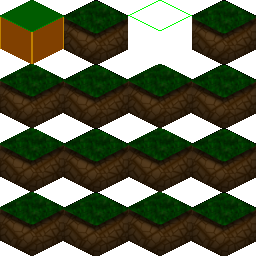
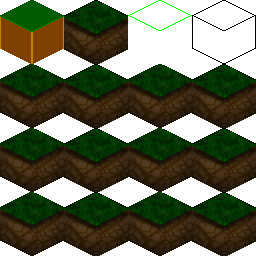
* Added a white debug tile.  * Fixed a bug in which WImage had two references to it's associated region.  * WTile edit had some issues that are now resolved!  * Interface had some unused vars  * Interface didn't let go of it's textures when calling GetSurface.  * Added all possible tiles when genera

Changed region(s): [[0.75, 0.0, 1.0, 0.25]]

diff --git a/src/sdk/gui/WTileEdit.java b/src/sdk/gui/WTileEdit.java
@@ -29,13 +29,19 @@ public class WTileEdit extends WWindow
 		imgTile = new WImage(new Rect(16, 16, 64, 64), m_rs.Texture, m_rs.get(m_tile.ID));
 		Add(imgTile);
 
-		lblHeight = new WLabel(new Rect(16, 70, 100, 18), "Count: " + m_tile.count());
+		lblHeight = new WLabel(new Rect(16, 70, 100, 18));
 		Add(lblHeight);
+		updateHeight();
 
 		Add(new WButton(new Rect(Width-150,  0, 90, 16), "Next", new ButAdd()));
 		Add(new WButton(new Rect(Width-150, 20, 90, 16), "Previous", new ButSub()));
 		Add(new WButton(new Rect(Width-150, 40, 90, 16), "Up", new ButUp()));
 		Add(new WButton(new Rect(Width-150, 60, 90, 16), "Down", new ButDown()));
+	}
+
+	private void updateHeight()
+	{
+		lblHeight.Text = "Count: " + m_tile.count();
 	}
 
 	private class ButAdd implements ClickHandler
@@ -61,6 +67,7 @@ public class WTileEdit extends WWindow
 	{
 		public void onClick(Object sender, boolean state) {
 			m_tile.Push(new Tile(Engine.araMain, m_tile.ID, false));
+			updateHeight();
 		}
 	}
 
@@ -68,6 +75,7 @@ public class WTileEdit extends WWindow
 	{
 		public void onClick(Object sender, boolean state) {
 			m_tile.Pop();
+			updateHeight();
 		}
 	}
 }

diff --git a/src/sdk/types/Interface.java b/src/sdk/types/Interface.java
@@ -30,8 +30,6 @@ public class Interface
 	private static int m_fntBase;
 	private static Texture m_texFont;
 
-	private RegionSet m_rsMap;
-
 	/** View offset, for dynamic camera movement around a fixed point
 	 * (ViewPoint)
 	 */
@@ -84,7 +82,6 @@ public class Interface
 		GL11.glBlendFunc(GL11.GL_SRC_ALPHA, GL11.GL_ONE_MINUS_SRC_ALPHA);
 
 		LoadFont("img/font.png");
-		m_rsMap = new RegionSet("tiles");
 	}
 
 	void setDisplay(int w, int h)
@@ -194,7 +191,9 @@ public class Interface
 		System.out.println("Loading texture: "+ref);
 
 		try {
-			Texture t = TextureLoader.getTexture("PNG", new FileInputStream(ref));
+			FileInputStream fis = new FileInputStream(ref);
+			Texture t = TextureLoader.getTexture("PNG", fis);
+			fis.close();
 			m_textures.put(ref, t);
 			return t;
 		} catch (Exception ex) {

diff --git a/src/sdk/gui/WImage.java b/src/sdk/gui/WImage.java
@@ -14,7 +14,6 @@ import sdk.types.RegionSet;
 public class WImage extends Widget
 {
 	Texture m_tex;
-	RectD m_reg;
 
 	public int Texture;
 	public RectD Reg;
@@ -25,13 +24,13 @@ public class WImage extends Widget
 	{
 		super(r);
 		m_tex = tex;
-		m_reg = reg;
+		Reg = reg;
 	}
 
 	@Override
 	public void Render(int offx, int offy, RegionSet RS)
 	{
 		GL11.glLoadIdentity();
-		Interface.Draw(m_tex, m_reg, new RectD(offx+X, offy+Y, Width, Height), 1);
+		Interface.Draw(m_tex, Reg, new RectD(offx+X, offy+Y, Width, Height), 1);
 	}
 }

diff --git a/src/sdk/world/MapIsometric.java b/src/sdk/world/MapIsometric.java
@@ -107,7 +107,7 @@ public class MapIsometric
 	{
 		for (int ix = 0; ix < Width; ix++)
 			for (int iy = 0; iy < Height; iy++)
-				this.get(ix, iy).ID = (short)Engine.r.nextInt(5);
+				this.get(ix, iy).ID = (short)Engine.r.nextInt(15);
 	}
 
 	/**
